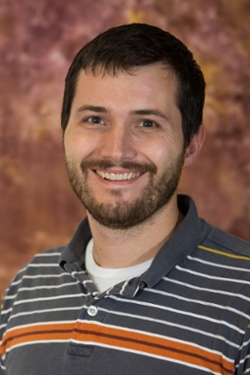
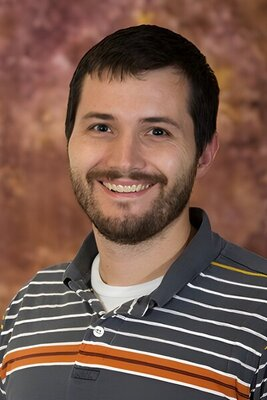
rescale and fix connections' image sizes

diff --git a/affils.html b/affils.html
@@ -40,7 +40,7 @@
                         <div class="list_div">
                             <div class="list_div_content">
                                 <a href="https://lidar.csuchico.edu/"><h3>Dr. Shane Mayor</h3></a>
-                                <p>I met Dr. Mayor initially because I was a Lab Assistant for the "Environmental Sensing" course which he normally teaches but was on sabbatical for this term. Towards the end of the term, Dr. Mayor returned to the school at which point I expressed my interest in working on a new project for him over the winter break. I worked on writing new <a href="https://lidar.csuchico.edu/staff/pollard/">data acquisition</a> software for the LiDAR system.</p>
+                                <p>I met Dr. Mayor initially because I was a Lab Assistant for the Environmental Sensing course (ERTH 440) which he normally teaches but was on sabbatical for this term. Towards the end of the term, Dr. Mayor returned to the school at which point I expressed my interest in working on a new project for him over the winter break. I worked on writing new <a href="https://lidar.csuchico.edu/staff/pollard/">data acquisition</a> software for the LiDAR system.</p>
                             </div>
                             <div class="list_div_image">
                                 <img src="./images/mayor.jpg">
@@ -52,7 +52,7 @@
                     <li>
                         <div class="list_div">
                             <div class="list_div_image">
-                                <img src="./images/arpin.jpg">
+                                <img src="./images/arpin.jpg" id="arpin">
                             </div>
                             <div class="list_div_content">
                                 <h3> Dr. Paul Arpin</h3>

diff --git a/main_style.css b/main_style.css
@@ -63,16 +63,20 @@ li {
 
 .list_div_image{
     margin: 2%;
+    width: 100%;
+}
 
+.list_div_image img{
+    width: 100%;
+}
+
+#arpin{
+    width: 50%;
 }
 
 .list_div_content{
     text-align: center;
     padding: 10px;
-}
-
-.list_div_image img{
-    object-fit: contain;
 }
 
 .project_content{
